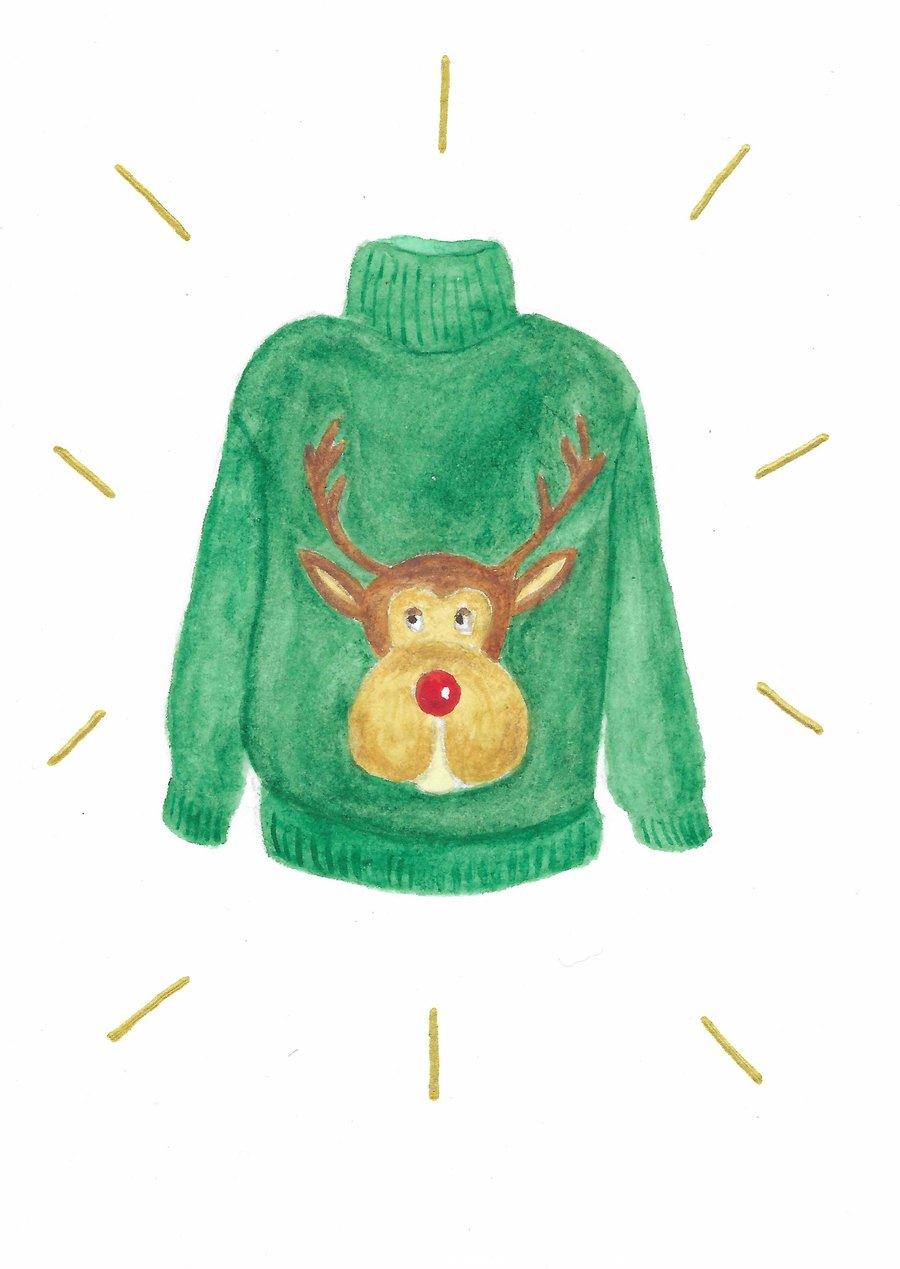
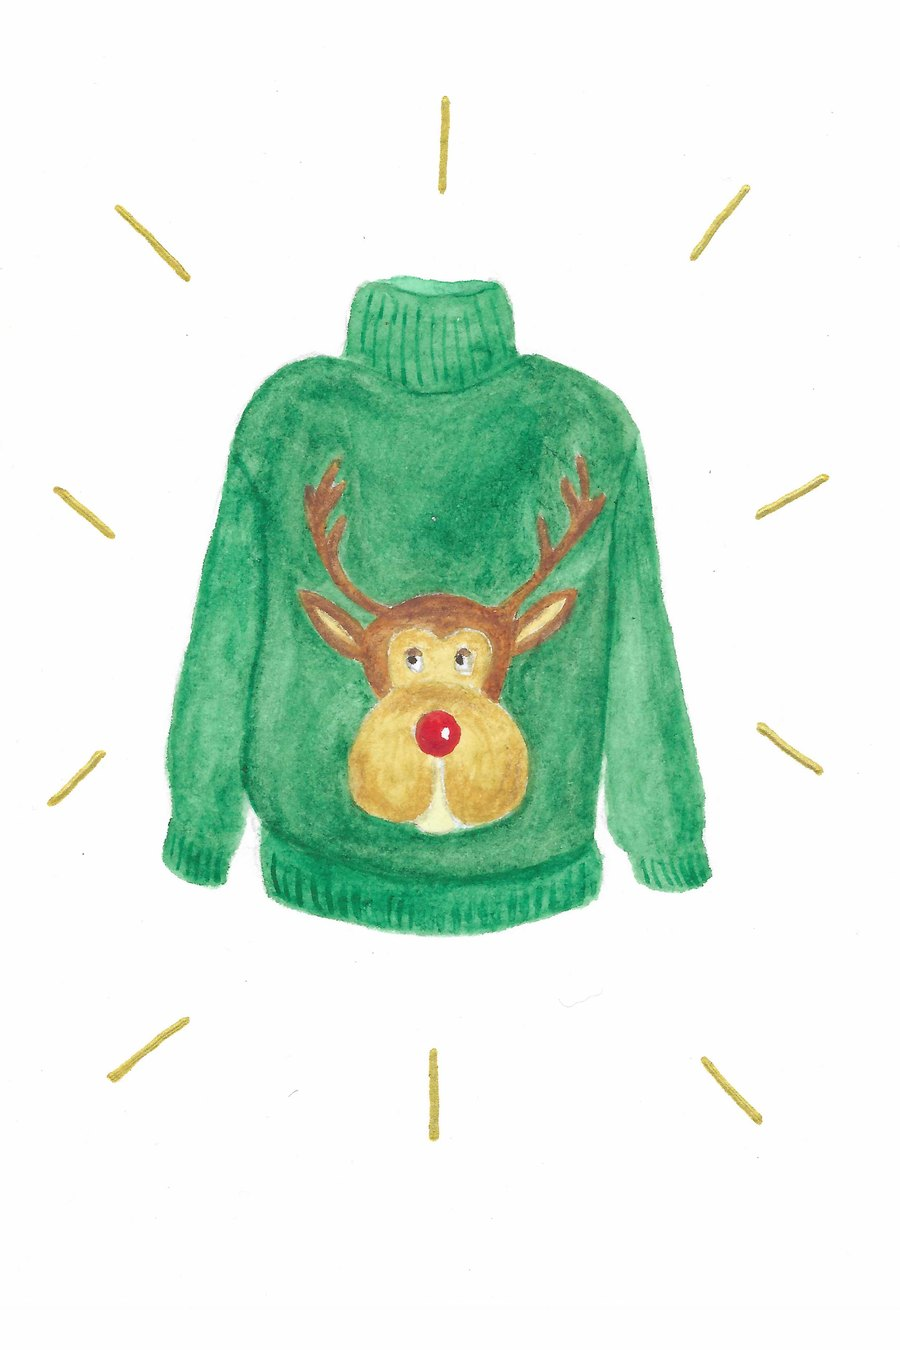
Show the jumper card in the first-drop section
Claude-Session: https://claude.ai/code/session_01GUPr6ihkZTKKkS6ch84Wbc

diff --git a/index.html b/index.html
@@ -184,8 +184,8 @@
         <figcaption>Lucky draw.</figcaption>
       </figure>
       <figure>
-        <img src="images/card-grumpy-cat.jpg" width="900" height="1350" alt="Hand-painted card: a grumpy ginger cat wearing red reindeer antlers with little bells" loading="lazy">
-        <figcaption>For the friend who can't stand Christmas.</figcaption>
+        <img src="images/card-jumper.jpg" width="900" height="1350" alt="Hand-painted card: a green Christmas jumper with a red-nosed reindeer" loading="lazy">
+        <figcaption>For your Mark Darcy.</figcaption>
       </figure>
     </div>
     <div class="teaser">
